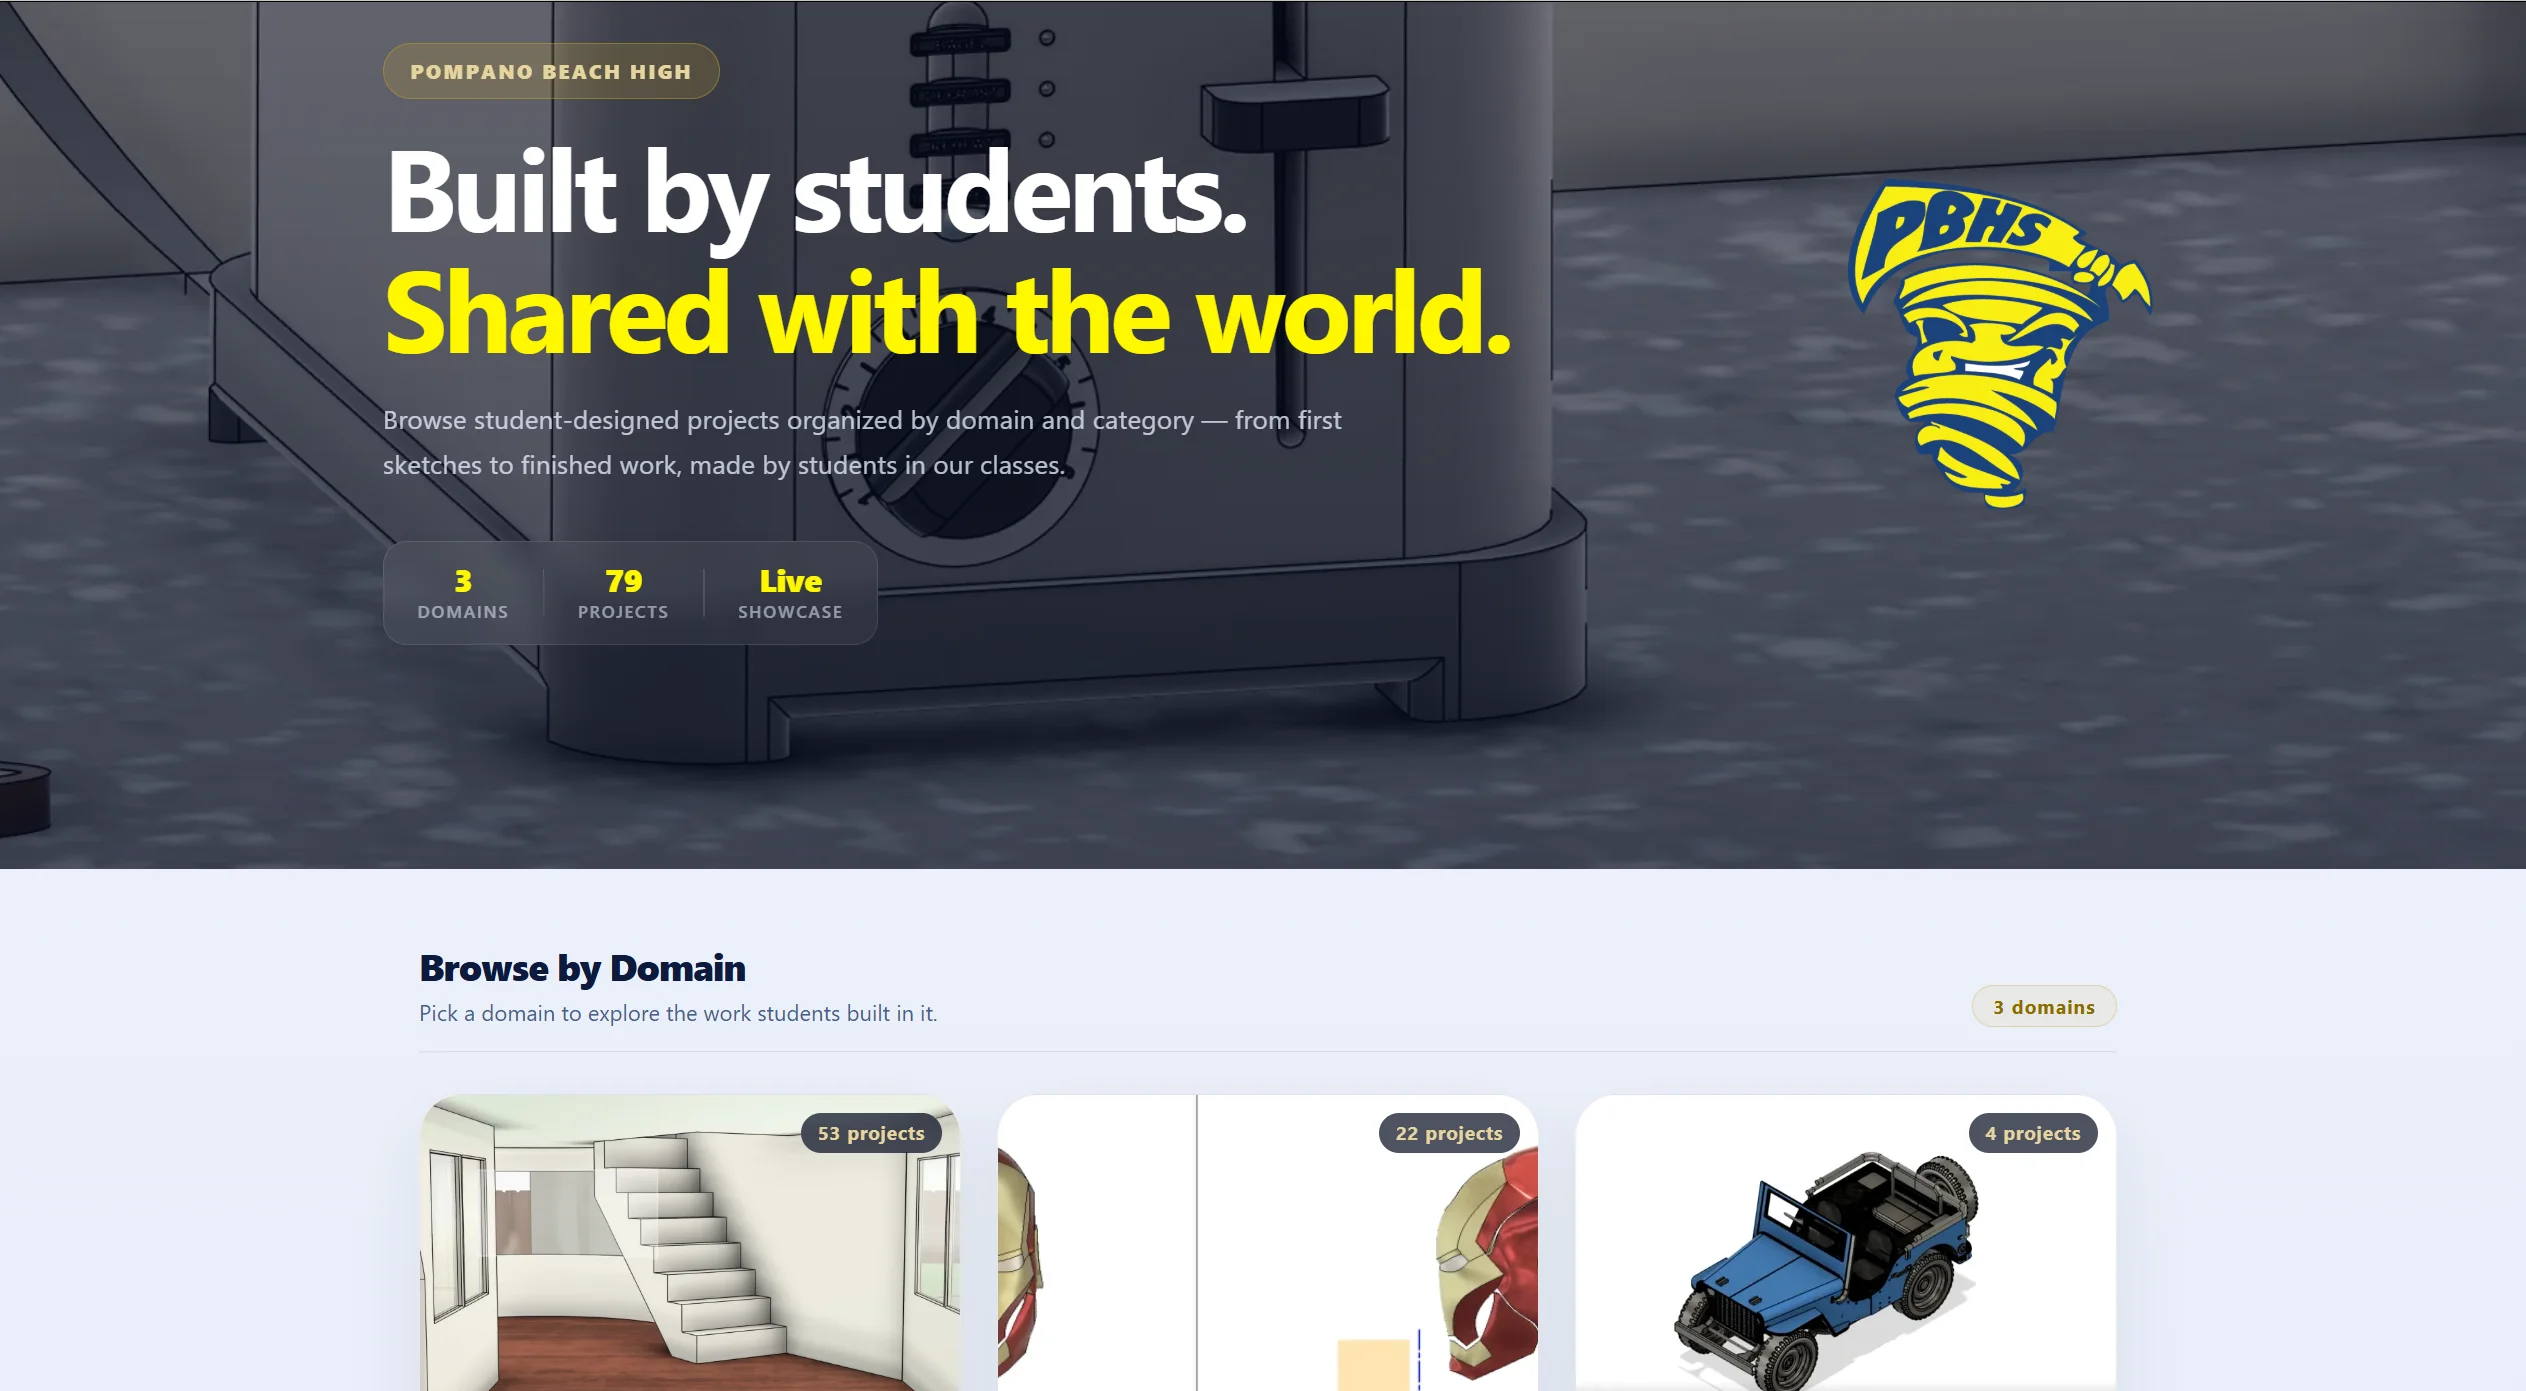
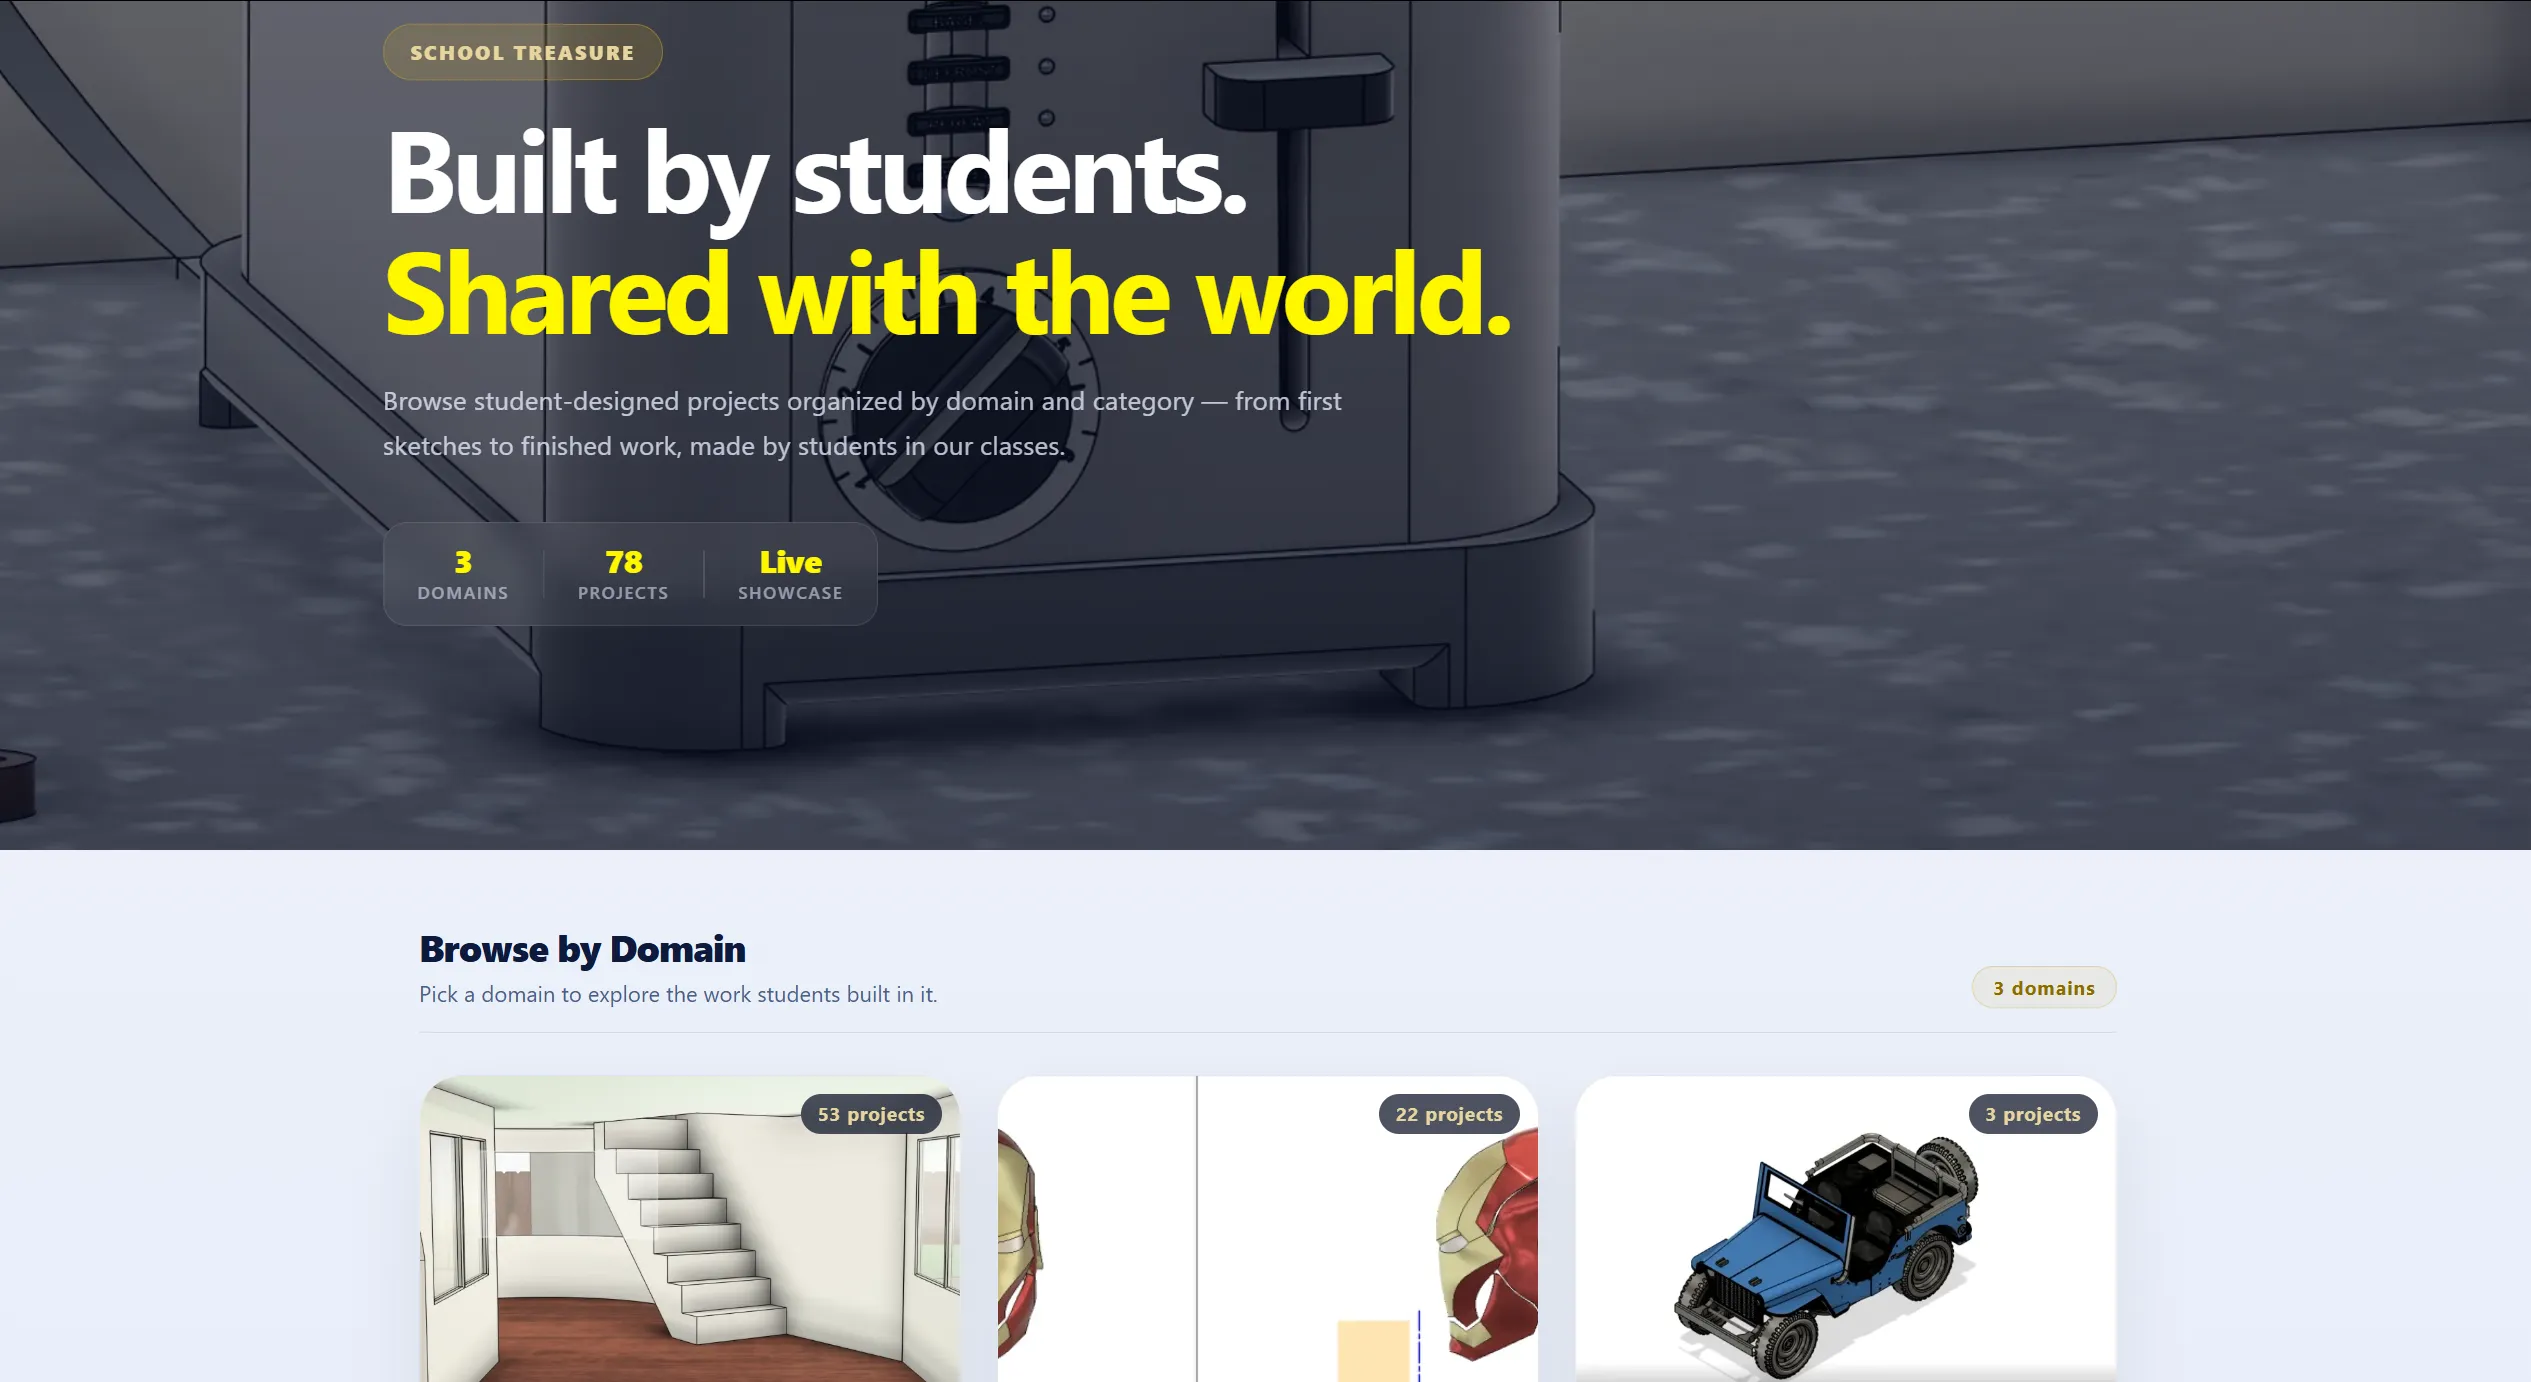
convert SchoolTreasure card image PNG→WebP (1.66 MB → 96 KB, q80)

diff --git a/src/components/Projects.jsx b/src/components/Projects.jsx
@@ -7,7 +7,7 @@ import 'react-vertical-timeline-component/style.min.css';
 
 import luxuryPicnics from '../assets/img/luxuryPicnics.webp';
 import heardso from '../assets/img/heardso.webp';
-import schooltreasure from '../assets/img/schooltreasurepng.png';
+import schooltreasure from '../assets/img/schooltreasure.webp';
 import coursecreator from '../assets/img/coursecreator.webp';
 import camcorderrescue from '../assets/img/camcorderrescue.webp';
 import altech from '../assets/img/altech.webp';